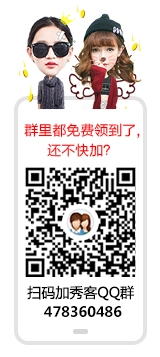
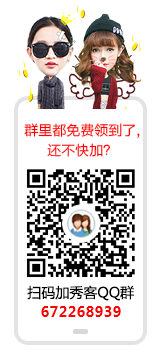
秀客侧边QQ联系图片联系客服链接更换

Changed region(s): [[0.1562, 0.4622, 0.875, 0.8011], [0.25, 0.8319, 0.7812, 0.8936]]

diff --git a/src/components/TopTip.vue b/src/components/TopTip.vue
@@ -25,10 +25,10 @@
           <span >482437157</span>
           <span style="color: #000">(内幕玩法抢先得)</span>
         </a>
-        <a v-if="getUserInfo.role == 0" target="_blank" href="http://shang.qq.com/wpa/qunwpa?idkey=c8b3150dbd8821f50cced9a08831de701636de9ae107e707114150d0050df9a4" class="ml-10 qq-tip">
+        <a v-if="getUserInfo.role == 0" target="_blank" href="https://jq.qq.com/?_wv=1027&k=5ZMH7Iu" class="ml-10 qq-tip">
           <img src="~assets/img/common/qq.png" alt="" >
           加入QQ交流群：
-          <span >478360486</span>
+          <span >672268939</span>
           <span style="color: #000">(第一时间抢便宜)</span>
         </a>
       </p>
@@ -62,7 +62,7 @@
           <i data-v-38a9a25e="" class="ivu-icon ivu-icon-person-stalker vtc-text-btm fs-16"></i>
           联系客服
         </a>
-        <a href="http://shang.qq.com/wpa/qunwpa?idkey=c8b3150dbd8821f50cced9a08831de701636de9ae107e707114150d0050df9a4" target="_blank" v-if="getUserInfo.role === 0">
+        <a href="https://jq.qq.com/?_wv=1027&k=5ZMH7Iu" target="_blank" v-if="getUserInfo.role === 0">
           <i data-v-38a9a25e="" class="ivu-icon ivu-icon-person-stalker vtc-text-btm fs-16"></i>
           联系客服
         </a>

diff --git a/src/App.vue b/src/App.vue
@@ -11,7 +11,7 @@
       <a href="http://shang.qq.com/wpa/qunwpa?idkey=310381a34c0c64a722030d3857865867ac141a57a9a235df3667ef5bcbe58435" target="_blank" v-if="getUserRole === 1">
         <img src="~assets/img/common/suspend-service.png" alt="">
       </a>
-      <a href="http://shang.qq.com/wpa/qunwpa?idkey=c8b3150dbd8821f50cced9a08831de701636de9ae107e707114150d0050df9a4" target="_blank" v-else>
+      <a href="https://jq.qq.com/?_wv=1027&k=5ZMH7Iu" target="_blank" v-else>
         <img src="~assets/img/common/suspend-service-showker.png" alt="">
       </a>
       <span class="close-suspend-service" @click.stop.self="closeSuspendService">关闭</span>
